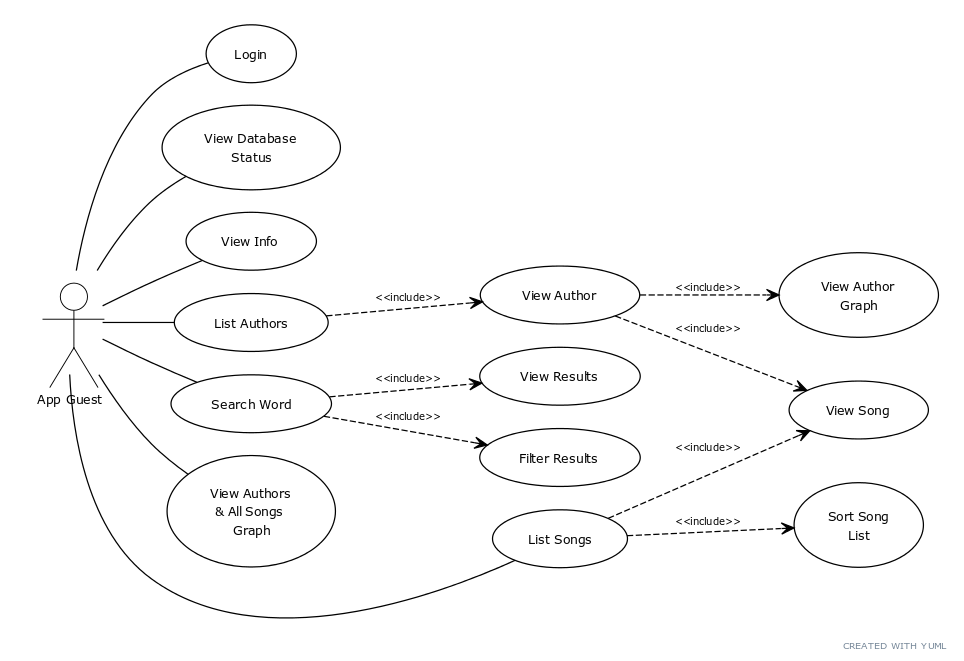
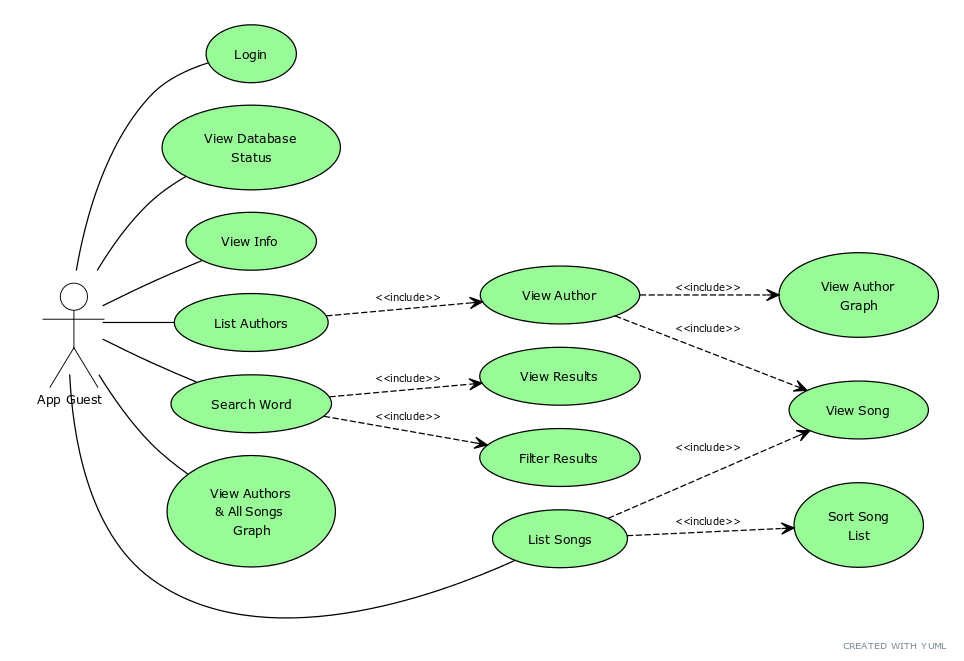
Use case diagrams update
Modified use case diagrams so, that there are color codes to mark which
function is allowed to which user roles.

diff --git a/documentation/user_stories.md b/documentation/user_stories.md
@@ -67,12 +67,19 @@ Tekstiesimerkkejä käyttötapauksesta *rekisteröityminen*
 
 ## Sovelluksen käyttötapauskaavio
 
-<img src="https://user-images.githubusercontent.com/46410240/84233769-a6ca2400-aafb-11ea-96ca-78be391b0b0e.png" alt="use case" >
+<img src="https://user-images.githubusercontent.com/46410240/84247529-e9e2c200-ab10-11ea-955d-910f566c46a7.png" alt="use case" >
+
+Värikoodien merkitys:
+- vihreä on kaikille käyttäjärooleille sallittu
+- sininen on vain pääkäyttäjälle sallittu
+- punainen on sallittu kirjautuneelle peruskäyttäjälle sekä pääkäyttäjälle
+
+Kuva ei ole kovin selkeä, joten alla vielä kuvat erikseen kunkin käyttäjäroolin osalta:
 
 ### Käyttötapauskaaviot erikseen kullekin roolille
 
-<img src="https://user-images.githubusercontent.com/46410240/84233982-12ac8c80-aafc-11ea-90fb-131b7aa8b696.png" alt="use case admin" >
+<img src="https://user-images.githubusercontent.com/46410240/84247295-8f496600-ab10-11ea-8289-4162badd91f1.png" alt="use case admin" >
 
-<img src="https://user-images.githubusercontent.com/46410240/84234005-1d672180-aafc-11ea-99cc-3048abca0496.png" alt="use case user" >
+<img src="https://user-images.githubusercontent.com/46410240/84247398-bacc5080-ab10-11ea-903c-00272d47a071.png" alt="use case user" >
 
-<img src="https://user-images.githubusercontent.com/46410240/84234024-26f08980-aafc-11ea-9d4e-de5c6dfcf740.png" alt="use case guest" >
+<img src="https://user-images.githubusercontent.com/46410240/84247370-b011bb80-ab10-11ea-82aa-a12145d07819.png" alt="use case guest" >
